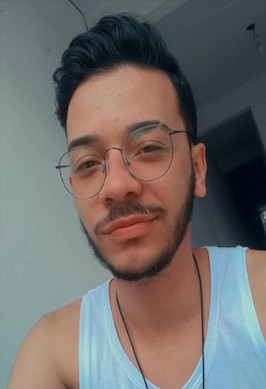
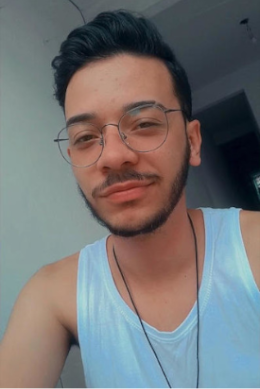
Responsivo do sobre e contato

diff --git a/src/style/responsive.css b/src/style/responsive.css
@@ -3,7 +3,10 @@
         font-size: 1.6rem;
     }
 
-    
+    .tecnologias .icones{
+        font-size: 90px;
+    }
+
     .projeto{
         padding: 5px;
         max-width: 1000px;
@@ -20,7 +23,13 @@
 }
 
 @media (max-width:1080px){
+    .sobre .info p{
+        font-size: 1.5rem;
+    }
 
+    .tecnologias .icones{
+        font-size: 80px;
+    }
 
     .projeto{
         max-width: 900px;
@@ -41,10 +50,19 @@
 }
 
 @media (max-width:975px){
-    .sobre .info p{
-        font-size: 1.5rem;
+    .sobre{
+        padding: 100px 10px;
     }
-
+    .sobre .info p{
+        font-size: 1.4rem;
+    }
+    .sobre .info a{
+        padding: 10px;
+        font-size: 1.6rem;
+    }
+    .sobre .info a i{
+        font-size: 20px;
+    }
 
     .conteudo .setas{
         width: 90px;
@@ -72,9 +90,40 @@
         top:-20px;
         left: 290px;
     }
+
+    .contato h2{
+        font-size: 3rem;
+    }
+    .contato .redes-sociais li a i{
+        font-size: 39px;
+    } 
+    .contato h3{
+        font-size: 2rem;
+    }
+}
+
+@media (max-width:890px){
+    .sobre{
+        flex-direction: column;
+    }   
+    .sobre .info{
+        width: 100%;
+        padding: 30px 50px;
+        text-align: justify;
+    }
 }
 
 @media (max-width:750px) {
+    .tecnologias h2{
+        font-size: 3.5rem;
+    }
+    .tecnologias .icones{
+        font-size: 70px;
+    }
+
+    .projetos h2{
+        font-size: 3.5rem;
+    }
     .projeto .descricao{
         padding: 0 30px 30px 20px;
     }
@@ -84,9 +133,30 @@
     .projeto .acesso-projeto .links{
         left: 250px;
     }
+
+    .contato h2{
+        font-size: 2.8rem;
+    }
 }
 
 @media (max-width:675px) {
+    .sobre .info p{
+        text-indent: 0px;
+    }
+    .sobre .info a{
+        align-self: center;
+    }
+
+    .tecnologias h2{
+        font-size: 3rem;
+    }
+    .tecnologias .icones{
+        font-size: 60px;
+    }
+
+    .projetos h2{
+        font-size: 3rem;
+    }
     .conteudo .setas img{
         height: 35px;
         width: 25px;
@@ -135,5 +205,21 @@
     }
     .projeto .acesso-projeto .links .btn-fechar{
         right: 10px;
+    }
+
+    .contato h2{
+        font-size: 2.5rem;
+    }
+    .contato .redes-sociais li a i{
+        font-size: 35px;
+    } 
+    .contato h3{
+        font-size: 1.9rem;
+    }
+}
+
+@media (max-width:575px) {
+    .tecnologias .icones{
+        flex-wrap: wrap;
     }
 }

diff --git a/index.html b/index.html
@@ -45,7 +45,11 @@
 
         <section class="sobre" id="sobre">
             <div class="foto">
-                <img src="src/images/foto.png" alt="Foto de Jhony">
+                <picture>
+                    <source media="(max-width:675px)" srcset="src/images/foto-pequena.png">
+                    <source media="(max-width:975px)" srcset="src/images/foto-media.png">
+                    <img src="src/images/foto.png" alt="Foto perfil">
+                </picture>
             </div>
 
             <div class="info">

diff --git a/src/style/global.css b/src/style/global.css
@@ -116,7 +116,6 @@ body{
     border-radius:  15% 5% 15% 5%;
     box-shadow: var(--color04) 1px 1px 30px;
     align-self: center;
-    height: 495px;
 }
 
 .sobre .info{
@@ -130,7 +129,7 @@ body{
 }
 
 .sobre .info p{
-    margin: 5px 0;
+    margin: 4px 0;
 }
 
 .sobre .info a{
